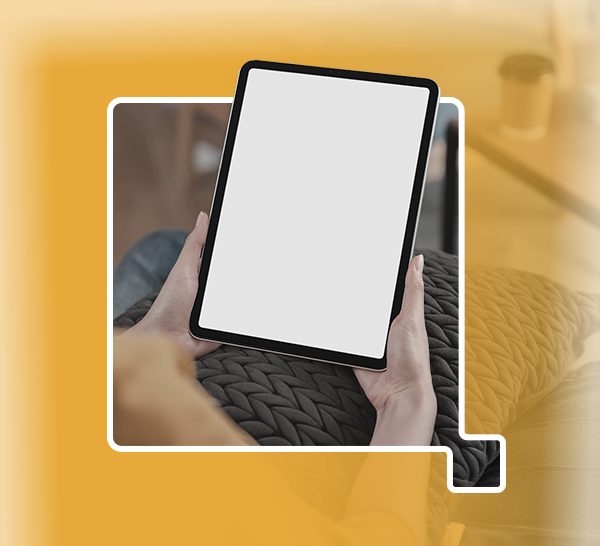
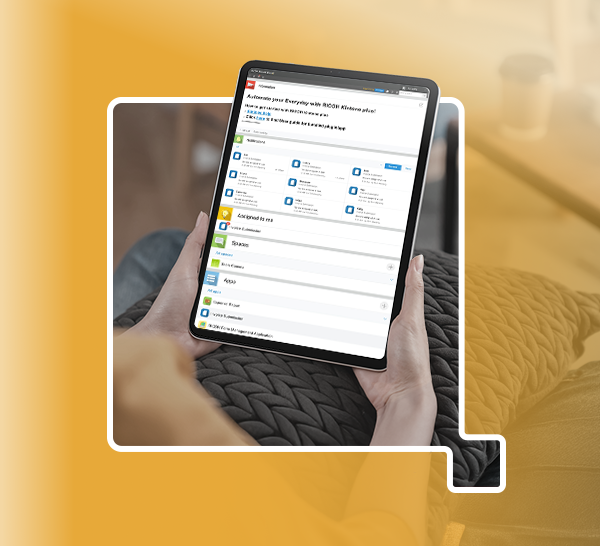
Refined kintone plues eDM

diff --git a/email/src/phase_6/524_-_eDM-Kintone-Plus/main-524-eDM.html b/email/src/phase_6/524_-_eDM-Kintone-Plus/main-524-eDM.html
@@ -248,7 +248,7 @@
                                               <tr>
                                                 <td style="width:300px;" class="mj-full-width-mobile">
                                                   <a href="https://www.ricoh.com/" target="_blank">
-                                                    <img alt="" src="https://ricoh-email.2xcode.dev/phase_6/524_-_eDM-Kintone-Plus/images/Kintone-Plus_Thumbnail.png" style="border:0;display:block;outline:none;text-decoration:none;height:auto;width:100%;font-size:13px;" width="300" height="auto" />
+                                                    <img alt="" src="images/Kintone-Plus_Thumbnail_with_Gradient.png" style="border:0;display:block;outline:none;text-decoration:none;height:auto;width:100%;font-size:13px;" width="300" height="auto" />
                                                   </a>
                                                 </td>
                                               </tr>
@@ -367,8 +367,8 @@
                                                   <table border="0" cellpadding="0" cellspacing="0" role="presentation" style="border-collapse:separate;width:340px;line-height:100%;">
                                                     <tbody>
                                                       <tr>
-                                                        <td align="center" bgcolor="#e4a739" role="presentation" style="border:none;border-radius:0;cursor:auto;mso-padding-alt:10px 25px;background:#e4a739;" valign="middle">
-                                                          <a href="https://www.ricoh.com/" style="display:inline-block;width:290px;background:#e4a739;color:#FFFFFF;font-family:Arial, san-serif;font-size:18px;font-weight:700;line-height:22px;margin:0;text-decoration:none;text-transform:none;padding:10px 25px;mso-padding-alt:0px;border-radius:0;" target="_blank"> Request a Demo </a>
+                                                        <td align="center" bgcolor="#e7a939" role="presentation" style="border:none;border-radius:0;cursor:auto;mso-padding-alt:10px 25px;background:#e7a939;" valign="middle">
+                                                          <a href="https://www.ricoh.com/" style="display:inline-block;width:290px;background:#e7a939;color:#FFFFFF;font-family:Arial, san-serif;font-size:18px;font-weight:700;line-height:22px;margin:0;text-decoration:none;text-transform:none;padding:10px 25px;mso-padding-alt:0px;border-radius:0;" target="_blank"> Request a Demo </a>
                                                         </td>
                                                       </tr>
                                                     </tbody>
